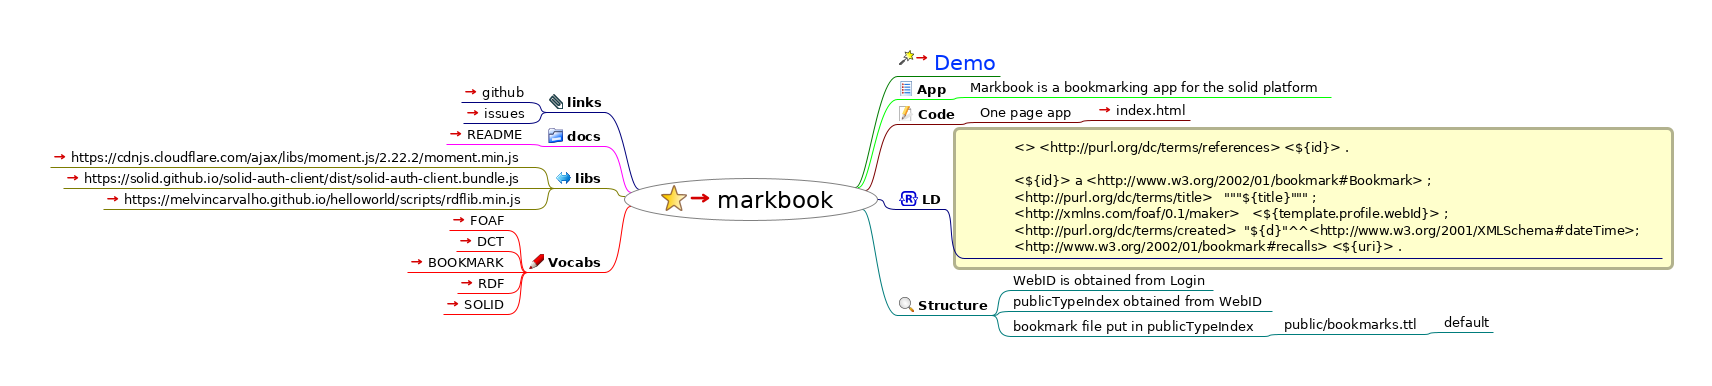
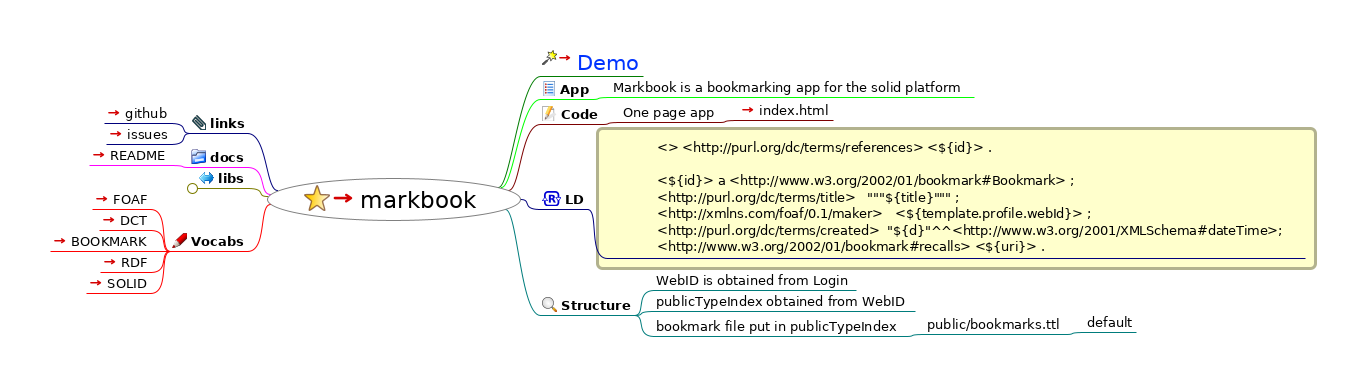
collapse libs

Changed region(s): [[0.031, 0.1244, 0.9919, 0.8705], [0.093, 0.2798, 0.124, 0.3109]]

diff --git a/webmaps/index.html b/webmaps/index.html
@@ -23,37 +23,34 @@
                    };
                };
           
-          --></script></head><body><h1>markbook</h1><div style="width:96%;  padding:2%;  margin-bottom:10px;  border: 0px;  text-align:center;  vertical-align:center;"><img src="index.html_files/image.png" style="margin-bottom:10px; &#9;border: 0px; &#9;text-align:center; &#9;vertical-align:center;" alt="Imagemap" usemap="#fm_imagemap" /></div><map name="fm_imagemap" id="fm_imagemap"><area shape="rect" href="index.html" alt="markbook" title="markbook" coords="624,178,878,221" />
-<area shape="rect" href="https://markbook.org/" alt="Demo" title="Demo" coords="897,50,1000,76" />
-<area shape="rect" href="#FMID_120250381FM" alt="App" title="App" coords="897,81,949,99" />
-<area shape="rect" href="#FMID_495239312FM" alt="Markbook is a bookmarking app for the so ..." title="Markbook is a bookmarking app for the so ..." coords="968,79,1331,97" />
-<area shape="rect" href="#FMID_383868314FM" alt="Code" title="Code" coords="897,106,959,124" />
-<area shape="rect" href="#FMID_26827509FM" alt="One page app" title="One page app" coords="978,104,1076,122" />
-<area shape="rect" href="../index.html" alt="index.html" title="index.html" coords="1095,102,1190,120" />
-<area shape="rect" href="#FMID_940888504FM" alt="LD" title="LD" coords="897,191,945,209" />
-<area shape="rect" href="#FMID_1310058374FM" alt="            &lt;&gt; &lt;http://purl.org/dc/terms ..." title="            &lt;&gt; &lt;http://purl.org/dc/terms ..." coords="964,138,1662,258" />
-<area shape="rect" href="#FMID_1985440428FM" alt="Structure" title="Structure" coords="897,297,992,315" />
-<area shape="rect" href="#FMID_690330746FM" alt="WebID is obtained from Login" title="WebID is obtained from Login" coords="1011,272,1213,290" />
-<area shape="rect" href="#FMID_1974744289FM" alt="publicTypeIndex obtained from WebID" title="publicTypeIndex obtained from WebID" coords="1011,293,1272,311" />
-<area shape="rect" href="#FMID_50156365FM" alt="bookmark file put in publicTypeIndex" title="bookmark file put in publicTypeIndex" coords="1011,318,1263,336" />
-<area shape="rect" href="#FMID_1011719771FM" alt="public/bookmarks.ttl" title="public/bookmarks.ttl" coords="1282,316,1423,334" />
-<area shape="rect" href="#FMID_248766247FM" alt="default" title="default" coords="1442,314,1493,332" />
-<area shape="rect" href="#FMID_808607355FM" alt="links" title="links" coords="547,94,605,112" />
-<area shape="rect" href="https://github.com/mark-book/markbook" alt="github" title="github" coords="461,84,528,102" />
-<area shape="rect" href="https://github.com/mark-book/markbook/issues" alt="issues" title="issues" coords="463,105,528,123" />
-<area shape="rect" href="#FMID_1100215200FM" alt="docs" title="docs" coords="546,128,605,146" />
-<area shape="rect" href="https://github.com/mark-book/markbook#markbook" alt="README" title="README" coords="446,126,527,144" />
-<area shape="rect" href="#FMID_1286983084FM" alt="libs" title="libs" coords="554,170,605,188" />
-<area shape="rect" href="https://cdnjs.cloudflare.com/ajax/libs/moment.js/2.22.2/moment.min.js" alt="https://cdnjs.cloudflare.com/ajax/libs/m ..." title="https://cdnjs.cloudflare.com/ajax/libs/m ..." coords="50,149,535,167" />
-<area shape="rect" href="https://solid.github.io/solid-auth-client/dist/solid-auth-client.bundle.js" alt="https://solid.github.io/solid-auth-clien ..." title="https://solid.github.io/solid-auth-clien ..." coords="63,170,535,188" />
-<area shape="rect" href="https://melvincarvalho.github.io/helloworld/scripts/rdflib.min.js" alt="https://melvincarvalho.github.io/hellowo ..." title="https://melvincarvalho.github.io/hellowo ..." coords="103,191,535,209" />
-<area shape="rect" href="#FMID_129926507FM" alt="Vocabs" title="Vocabs" coords="527,254,605,272" />
-<area shape="rect" href="http://xmlns.com/foaf/0.1/" alt="FOAF" title="FOAF" coords="449,212,508,230" />
-<area shape="rect" href="http://purl.org/dc/terms/" alt="DCT" title="DCT" coords="456,233,508,251" />
-<area shape="rect" href="http://www.w3.org/2002/01/bookmark#" alt="BOOKMARK" title="BOOKMARK" coords="407,254,508,272" />
-<area shape="rect" href="http://www.w3.org/1999/02/22-rdf-syntax-ns#" alt="RDF" title="RDF" coords="457,275,508,293" />
-<area shape="rect" href="http://www.w3.org/ns/solid/terms#" alt="SOLID" title="SOLID" coords="443,296,508,314" />
+          --></script></head><body><h1>markbook</h1><div style="width:96%;  padding:2%;  margin-bottom:10px;  border: 0px;  text-align:center;  vertical-align:center;"><img src="index.html_files/image.png" style="margin-bottom:10px; &#9;border: 0px; &#9;text-align:center; &#9;vertical-align:center;" alt="Imagemap" usemap="#fm_imagemap" /></div><map name="fm_imagemap" id="fm_imagemap"><area shape="rect" href="index.html" alt="markbook" title="markbook" coords="267,178,521,221" />
+<area shape="rect" href="https://markbook.org/" alt="Demo" title="Demo" coords="540,50,643,76" />
+<area shape="rect" href="#FMID_120250381FM" alt="App" title="App" coords="540,81,592,99" />
+<area shape="rect" href="#FMID_495239312FM" alt="Markbook is a bookmarking app for the so ..." title="Markbook is a bookmarking app for the so ..." coords="611,79,974,97" />
+<area shape="rect" href="#FMID_383868314FM" alt="Code" title="Code" coords="540,106,602,124" />
+<area shape="rect" href="#FMID_26827509FM" alt="One page app" title="One page app" coords="621,104,719,122" />
+<area shape="rect" href="../index.html" alt="index.html" title="index.html" coords="738,102,833,120" />
+<area shape="rect" href="#FMID_940888504FM" alt="LD" title="LD" coords="540,191,588,209" />
+<area shape="rect" href="#FMID_1310058374FM" alt="            &lt;&gt; &lt;http://purl.org/dc/terms ..." title="            &lt;&gt; &lt;http://purl.org/dc/terms ..." coords="607,138,1305,258" />
+<area shape="rect" href="#FMID_1985440428FM" alt="Structure" title="Structure" coords="540,297,635,315" />
+<area shape="rect" href="#FMID_690330746FM" alt="WebID is obtained from Login" title="WebID is obtained from Login" coords="654,272,856,290" />
+<area shape="rect" href="#FMID_1974744289FM" alt="publicTypeIndex obtained from WebID" title="publicTypeIndex obtained from WebID" coords="654,293,915,311" />
+<area shape="rect" href="#FMID_50156365FM" alt="bookmark file put in publicTypeIndex" title="bookmark file put in publicTypeIndex" coords="654,318,906,336" />
+<area shape="rect" href="#FMID_1011719771FM" alt="public/bookmarks.ttl" title="public/bookmarks.ttl" coords="925,316,1066,334" />
+<area shape="rect" href="#FMID_248766247FM" alt="default" title="default" coords="1085,314,1136,332" />
+<area shape="rect" href="#FMID_808607355FM" alt="links" title="links" coords="190,115,248,133" />
+<area shape="rect" href="https://github.com/mark-book/markbook" alt="github" title="github" coords="104,105,171,123" />
+<area shape="rect" href="https://github.com/mark-book/markbook/issues" alt="issues" title="issues" coords="106,126,171,144" />
+<area shape="rect" href="#FMID_1100215200FM" alt="docs" title="docs" coords="189,149,248,167" />
+<area shape="rect" href="https://github.com/mark-book/markbook#markbook" alt="README" title="README" coords="89,147,170,165" />
+<area shape="rect" href="#FMID_1286983084FM" alt="libs" title="libs" coords="197,170,248,188" />
+<area shape="rect" href="#FMID_129926507FM" alt="Vocabs" title="Vocabs" coords="170,233,248,251" />
+<area shape="rect" href="http://xmlns.com/foaf/0.1/" alt="FOAF" title="FOAF" coords="92,191,151,209" />
+<area shape="rect" href="http://purl.org/dc/terms/" alt="DCT" title="DCT" coords="99,212,151,230" />
+<area shape="rect" href="http://www.w3.org/2002/01/bookmark#" alt="BOOKMARK" title="BOOKMARK" coords="50,233,151,251" />
+<area shape="rect" href="http://www.w3.org/1999/02/22-rdf-syntax-ns#" alt="RDF" title="RDF" coords="100,254,151,272" />
+<area shape="rect" href="http://www.w3.org/ns/solid/terms#" alt="SOLID" title="SOLID" coords="86,275,151,293" />
 </map>
 
-<div class="node"><img src="index.html_files/hide.png" class="hideshow" alt="hide" onClick="toggle(&quot;N65543&quot;)" id="imgN65543" /><img src="index.html_files/icons/bookmark.svg" alt="bookmark" /> <a id="FMID_1831615648FM" /><div class="nodecontent" style="color:#000000;font-size:150%;"><a href="index.html">markbook</a> <a href="index.html"><img src="index.html_files/ilink.png" alt="User Link" style="border-width:0" /></a></div><div class="content" id="N65543"><div class="node"><img src="index.html_files/leaf.png" class="hideshow" alt="leaf" /><img src="index.html_files/icons/wizard.svg" alt="wizard" /> <a id="FMID_1672887815FM" /><div class="nodecontent" style="color:#0033ff;font-size:133%;"><a href="https://markbook.org/">Demo</a> <a href="https://markbook.org/"><img src="index.html_files/ilink.png" alt="User Link" style="border-width:0" /></a></div></div><div class="node"><img src="index.html_files/hide.png" class="hideshow" alt="hide" onClick="toggle(&quot;N66489&quot;)" id="imgN66489" /><img src="index.html_files/icons/list.svg" alt="list" /> <a id="FMID_120250381FM" /><div class="nodecontent" style="color:#000000;font-size:83%;font-weight:bold;">App</div><div class="content" id="N66489"><div class="node"><img src="index.html_files/leaf.png" class="hideshow" alt="leaf" /><a id="FMID_495239312FM" /><div class="nodecontent" style="color:#000000;font-size:83%;">Markbook is a bookmarking app for the solid platform</div></div></div></div><div class="node"><img src="index.html_files/hide.png" class="hideshow" alt="hide" onClick="toggle(&quot;N66567&quot;)" id="imgN66567" /><img src="index.html_files/icons/edit.svg" alt="edit" /> <a id="FMID_383868314FM" /><div class="nodecontent" style="color:#000000;font-size:83%;font-weight:bold;">Code</div><div class="content" id="N66567"><div class="node"><img src="index.html_files/hide.png" class="hideshow" alt="hide" onClick="toggle(&quot;N66608&quot;)" id="imgN66608" /><a id="FMID_26827509FM" /><div class="nodecontent" style="color:#000000;font-size:83%;">One page app</div><div class="content" id="N66608"><div class="node"><img src="index.html_files/leaf.png" class="hideshow" alt="leaf" /><a id="FMID_119725247FM" /><div class="nodecontent" style="color:#000000;font-size:83%;"><a href="../index.html">index.html</a> <a href="../index.html"><img src="index.html_files/ilink.png" alt="User Link" style="border-width:0" /></a></div></div></div></div></div></div><div class="node"><img src="index.html_files/hide.png" class="hideshow" alt="hide" onClick="toggle(&quot;N66682&quot;)" id="imgN66682" /><img src="index.html_files/icons/revision.svg" alt="revision" /> <a id="FMID_940888504FM" /><div class="nodecontent" style="color:#000000;font-size:83%;font-weight:bold;">LD</div><div class="content" id="N66682"><div class="cloud" style="background-color:#ffffcc"><img src="index.html_files/leaf.png" class="hideshow" alt="leaf" /><a id="FMID_1310058374FM" /><div class="nodecontent" style="color:#000000;font-size:83%;">            &lt;&gt; &lt;http://purl.org/dc/terms/references&gt; &lt;${id}&gt; .<br /><br />            &lt;${id}&gt; a &lt;http://www.w3.org/2002/01/bookmark#Bookmark&gt; ;<br />            &lt;http://purl.org/dc/terms/title&gt;   """${title}""" ;<br />            &lt;http://xmlns.com/foaf/0.1/maker&gt;   &lt;${template.profile.webId}&gt; ;<br />            &lt;http://purl.org/dc/terms/created&gt;  "${d}"^^&lt;http://www.w3.org/2001/XMLSchema#dateTime&gt;;<br />            &lt;http://www.w3.org/2002/01/bookmark#recalls&gt; &lt;${uri}&gt; .</div></div></div></div><div class="node"><img src="index.html_files/hide.png" class="hideshow" alt="hide" onClick="toggle(&quot;N66764&quot;)" id="imgN66764" /><img src="index.html_files/icons/xmag.svg" alt="xmag" /> <a id="FMID_1985440428FM" /><div class="nodecontent" style="color:#000000;font-size:83%;font-weight:bold;">Structure</div><div class="content" id="N66764"><div class="node"><img src="index.html_files/leaf.png" class="hideshow" alt="leaf" /><a id="FMID_690330746FM" /><div class="nodecontent" style="color:#000000;font-size:83%;">WebID is obtained from Login</div></div><div class="node"><img src="index.html_files/leaf.png" class="hideshow" alt="leaf" /><a id="FMID_1974744289FM" /><div class="nodecontent" style="color:#000000;font-size:83%;">publicTypeIndex obtained from WebID</div></div><div class="node"><img src="index.html_files/hide.png" class="hideshow" alt="hide" onClick="toggle(&quot;N66877&quot;)" id="imgN66877" /><a id="FMID_50156365FM" /><div class="nodecontent" style="color:#000000;font-size:83%;">bookmark file put in publicTypeIndex</div><div class="content" id="N66877"><div class="node"><img src="index.html_files/hide.png" class="hideshow" alt="hide" onClick="toggle(&quot;N66912&quot;)" id="imgN66912" /><a id="FMID_1011719771FM" /><div class="nodecontent" style="color:#000000;font-size:83%;">public/bookmarks.ttl</div><div class="content" id="N66912"><div class="node"><img src="index.html_files/leaf.png" class="hideshow" alt="leaf" /><a id="FMID_248766247FM" /><div class="nodecontent" style="color:#000000;font-size:83%;">default</div></div></div></div></div></div></div></div><div class="node"><img src="index.html_files/hide.png" class="hideshow" alt="hide" onClick="toggle(&quot;N66986&quot;)" id="imgN66986" /><img src="index.html_files/icons/attach.svg" alt="attach" /> <a id="FMID_808607355FM" /><div class="nodecontent" style="color:#000000;font-size:83%;font-weight:bold;">links</div><div class="content" id="N66986"><div class="node"><img src="index.html_files/leaf.png" class="hideshow" alt="leaf" /><a id="FMID_885967166FM" /><div class="nodecontent" style="color:#000000;font-size:83%;"><a href="https://github.com/mark-book/markbook">github</a> <a href="https://github.com/mark-book/markbook"><img src="index.html_files/ilink.png" alt="User Link" style="border-width:0" /></a></div></div><div class="node"><img src="index.html_files/leaf.png" class="hideshow" alt="leaf" /><a id="FMID_780116375FM" /><div class="nodecontent" style="color:#000000;font-size:83%;"><a href="https://github.com/mark-book/markbook/issues">issues</a> <a href="https://github.com/mark-book/markbook/issues"><img src="index.html_files/ilink.png" alt="User Link" style="border-width:0" /></a></div></div></div></div><div class="node"><img src="index.html_files/hide.png" class="hideshow" alt="hide" onClick="toggle(&quot;N67102&quot;)" id="imgN67102" /><img src="index.html_files/icons/folder.svg" alt="folder" /> <a id="FMID_1100215200FM" /><div class="nodecontent" style="color:#000000;font-size:83%;font-weight:bold;">docs</div><div class="content" id="N67102"><div class="node"><img src="index.html_files/leaf.png" class="hideshow" alt="leaf" /><a id="FMID_387137590FM" /><div class="nodecontent" style="color:#000000;font-size:83%;"><a href="https://github.com/mark-book/markbook#markbook">README</a> <a href="https://github.com/mark-book/markbook#markbook"><img src="index.html_files/ilink.png" alt="User Link" style="border-width:0" /></a></div></div></div></div><div class="node"><img src="index.html_files/hide.png" class="hideshow" alt="hide" onClick="toggle(&quot;N67181&quot;)" id="imgN67181" /><img src="index.html_files/icons/16x16-free-application-icons/png/16x16/Left-right.png" alt="16x16-free-application-icons/png/16x16/Left-right" /> <a id="FMID_1286983084FM" /><div class="nodecontent" style="color:#000000;font-size:83%;font-weight:bold;">libs</div><div class="content" id="N67181"><div class="node"><img src="index.html_files/leaf.png" class="hideshow" alt="leaf" /><a id="FMID_851897190FM" /><div class="nodecontent" style="color:#000000;font-size:83%;"><a href="https://cdnjs.cloudflare.com/ajax/libs/moment.js/2.22.2/moment.min.js">https://cdnjs.cloudflare.com/ajax/libs/moment.js/2.22.2/moment.min.js</a> <a href="https://cdnjs.cloudflare.com/ajax/libs/moment.js/2.22.2/moment.min.js"><img src="index.html_files/ilink.png" alt="User Link" style="border-width:0" /></a></div></div><div class="node"><img src="index.html_files/leaf.png" class="hideshow" alt="leaf" /><a id="FMID_1873299396FM" /><div class="nodecontent" style="color:#000000;font-size:83%;"><a href="https://solid.github.io/solid-auth-client/dist/solid-auth-client.bundle.js">https://solid.github.io/solid-auth-client/dist/solid-auth-client.bundle.js</a> <a href="https://solid.github.io/solid-auth-client/dist/solid-auth-client.bundle.js"><img src="index.html_files/ilink.png" alt="User Link" style="border-width:0" /></a></div></div><div class="node"><img src="index.html_files/leaf.png" class="hideshow" alt="leaf" /><a id="FMID_1373373760FM" /><div class="nodecontent" style="color:#000000;font-size:83%;"><a href="https://melvincarvalho.github.io/helloworld/scripts/rdflib.min.js">https://melvincarvalho.github.io/helloworld/scripts/rdflib.min.js</a> <a href="https://melvincarvalho.github.io/helloworld/scripts/rdflib.min.js"><img src="index.html_files/ilink.png" alt="User Link" style="border-width:0" /></a></div></div></div></div><div class="node"><img src="index.html_files/hide.png" class="hideshow" alt="hide" onClick="toggle(&quot;N67334&quot;)" id="imgN67334" /><img src="index.html_files/icons/pencil.svg" alt="pencil" /> <a id="FMID_129926507FM" /><div class="nodecontent" style="color:#000000;font-size:83%;font-weight:bold;">Vocabs</div><div class="content" id="N67334"><div class="node"><img src="index.html_files/leaf.png" class="hideshow" alt="leaf" /><a id="FMID_500156053FM" /><div class="nodecontent" style="color:#000000;font-size:83%;"><a href="http://xmlns.com/foaf/0.1/">FOAF</a> <a href="http://xmlns.com/foaf/0.1/"><img src="index.html_files/ilink.png" alt="User Link" style="border-width:0" /></a></div></div><div class="node"><img src="index.html_files/leaf.png" class="hideshow" alt="leaf" /><a id="FMID_599327468FM" /><div class="nodecontent" style="color:#000000;font-size:83%;"><a href="http://purl.org/dc/terms/">DCT</a> <a href="http://purl.org/dc/terms/"><img src="index.html_files/ilink.png" alt="User Link" style="border-width:0" /></a></div></div><div class="node"><img src="index.html_files/leaf.png" class="hideshow" alt="leaf" /><a id="FMID_32599561FM" /><div class="nodecontent" style="color:#000000;font-size:83%;"><a href="http://www.w3.org/2002/01/bookmark#">BOOKMARK</a> <a href="http://www.w3.org/2002/01/bookmark#"><img src="index.html_files/ilink.png" alt="User Link" style="border-width:0" /></a></div></div><div class="node"><img src="index.html_files/leaf.png" class="hideshow" alt="leaf" /><a id="FMID_1370597730FM" /><div class="nodecontent" style="color:#000000;font-size:83%;"><a href="http://www.w3.org/1999/02/22-rdf-syntax-ns#">RDF</a> <a href="http://www.w3.org/1999/02/22-rdf-syntax-ns#"><img src="index.html_files/ilink.png" alt="User Link" style="border-width:0" /></a></div></div><div class="node"><img src="index.html_files/leaf.png" class="hideshow" alt="leaf" /><a id="FMID_134386448FM" /><div class="nodecontent" style="color:#000000;font-size:83%;"><a href="http://www.w3.org/ns/solid/terms#">SOLID</a> <a href="http://www.w3.org/ns/solid/terms#"><img src="index.html_files/ilink.png" alt="User Link" style="border-width:0" /></a></div></div></div></div></div></div>
+<div class="node"><img src="index.html_files/hide.png" class="hideshow" alt="hide" onClick="toggle(&quot;N65543&quot;)" id="imgN65543" /><img src="index.html_files/icons/bookmark.svg" alt="bookmark" /> <a id="FMID_1831615648FM" /><div class="nodecontent" style="color:#000000;font-size:150%;"><a href="index.html">markbook</a> <a href="index.html"><img src="index.html_files/ilink.png" alt="User Link" style="border-width:0" /></a></div><div class="content" id="N65543"><div class="node"><img src="index.html_files/leaf.png" class="hideshow" alt="leaf" /><img src="index.html_files/icons/wizard.svg" alt="wizard" /> <a id="FMID_1672887815FM" /><div class="nodecontent" style="color:#0033ff;font-size:133%;"><a href="https://markbook.org/">Demo</a> <a href="https://markbook.org/"><img src="index.html_files/ilink.png" alt="User Link" style="border-width:0" /></a></div></div><div class="node"><img src="index.html_files/hide.png" class="hideshow" alt="hide" onClick="toggle(&quot;N66489&quot;)" id="imgN66489" /><img src="index.html_files/icons/list.svg" alt="list" /> <a id="FMID_120250381FM" /><div class="nodecontent" style="color:#000000;font-size:83%;font-weight:bold;">App</div><div class="content" id="N66489"><div class="node"><img src="index.html_files/leaf.png" class="hideshow" alt="leaf" /><a id="FMID_495239312FM" /><div class="nodecontent" style="color:#000000;font-size:83%;">Markbook is a bookmarking app for the solid platform</div></div></div></div><div class="node"><img src="index.html_files/hide.png" class="hideshow" alt="hide" onClick="toggle(&quot;N66567&quot;)" id="imgN66567" /><img src="index.html_files/icons/edit.svg" alt="edit" /> <a id="FMID_383868314FM" /><div class="nodecontent" style="color:#000000;font-size:83%;font-weight:bold;">Code</div><div class="content" id="N66567"><div class="node"><img src="index.html_files/hide.png" class="hideshow" alt="hide" onClick="toggle(&quot;N66608&quot;)" id="imgN66608" /><a id="FMID_26827509FM" /><div class="nodecontent" style="color:#000000;font-size:83%;">One page app</div><div class="content" id="N66608"><div class="node"><img src="index.html_files/leaf.png" class="hideshow" alt="leaf" /><a id="FMID_119725247FM" /><div class="nodecontent" style="color:#000000;font-size:83%;"><a href="../index.html">index.html</a> <a href="../index.html"><img src="index.html_files/ilink.png" alt="User Link" style="border-width:0" /></a></div></div></div></div></div></div><div class="node"><img src="index.html_files/hide.png" class="hideshow" alt="hide" onClick="toggle(&quot;N66682&quot;)" id="imgN66682" /><img src="index.html_files/icons/revision.svg" alt="revision" /> <a id="FMID_940888504FM" /><div class="nodecontent" style="color:#000000;font-size:83%;font-weight:bold;">LD</div><div class="content" id="N66682"><div class="cloud" style="background-color:#ffffcc"><img src="index.html_files/leaf.png" class="hideshow" alt="leaf" /><a id="FMID_1310058374FM" /><div class="nodecontent" style="color:#000000;font-size:83%;">            &lt;&gt; &lt;http://purl.org/dc/terms/references&gt; &lt;${id}&gt; .<br /><br />            &lt;${id}&gt; a &lt;http://www.w3.org/2002/01/bookmark#Bookmark&gt; ;<br />            &lt;http://purl.org/dc/terms/title&gt;   """${title}""" ;<br />            &lt;http://xmlns.com/foaf/0.1/maker&gt;   &lt;${template.profile.webId}&gt; ;<br />            &lt;http://purl.org/dc/terms/created&gt;  "${d}"^^&lt;http://www.w3.org/2001/XMLSchema#dateTime&gt;;<br />            &lt;http://www.w3.org/2002/01/bookmark#recalls&gt; &lt;${uri}&gt; .</div></div></div></div><div class="node"><img src="index.html_files/hide.png" class="hideshow" alt="hide" onClick="toggle(&quot;N66764&quot;)" id="imgN66764" /><img src="index.html_files/icons/xmag.svg" alt="xmag" /> <a id="FMID_1985440428FM" /><div class="nodecontent" style="color:#000000;font-size:83%;font-weight:bold;">Structure</div><div class="content" id="N66764"><div class="node"><img src="index.html_files/leaf.png" class="hideshow" alt="leaf" /><a id="FMID_690330746FM" /><div class="nodecontent" style="color:#000000;font-size:83%;">WebID is obtained from Login</div></div><div class="node"><img src="index.html_files/leaf.png" class="hideshow" alt="leaf" /><a id="FMID_1974744289FM" /><div class="nodecontent" style="color:#000000;font-size:83%;">publicTypeIndex obtained from WebID</div></div><div class="node"><img src="index.html_files/hide.png" class="hideshow" alt="hide" onClick="toggle(&quot;N66877&quot;)" id="imgN66877" /><a id="FMID_50156365FM" /><div class="nodecontent" style="color:#000000;font-size:83%;">bookmark file put in publicTypeIndex</div><div class="content" id="N66877"><div class="node"><img src="index.html_files/hide.png" class="hideshow" alt="hide" onClick="toggle(&quot;N66912&quot;)" id="imgN66912" /><a id="FMID_1011719771FM" /><div class="nodecontent" style="color:#000000;font-size:83%;">public/bookmarks.ttl</div><div class="content" id="N66912"><div class="node"><img src="index.html_files/leaf.png" class="hideshow" alt="leaf" /><a id="FMID_248766247FM" /><div class="nodecontent" style="color:#000000;font-size:83%;">default</div></div></div></div></div></div></div></div><div class="node"><img src="index.html_files/hide.png" class="hideshow" alt="hide" onClick="toggle(&quot;N66986&quot;)" id="imgN66986" /><img src="index.html_files/icons/attach.svg" alt="attach" /> <a id="FMID_808607355FM" /><div class="nodecontent" style="color:#000000;font-size:83%;font-weight:bold;">links</div><div class="content" id="N66986"><div class="node"><img src="index.html_files/leaf.png" class="hideshow" alt="leaf" /><a id="FMID_885967166FM" /><div class="nodecontent" style="color:#000000;font-size:83%;"><a href="https://github.com/mark-book/markbook">github</a> <a href="https://github.com/mark-book/markbook"><img src="index.html_files/ilink.png" alt="User Link" style="border-width:0" /></a></div></div><div class="node"><img src="index.html_files/leaf.png" class="hideshow" alt="leaf" /><a id="FMID_780116375FM" /><div class="nodecontent" style="color:#000000;font-size:83%;"><a href="https://github.com/mark-book/markbook/issues">issues</a> <a href="https://github.com/mark-book/markbook/issues"><img src="index.html_files/ilink.png" alt="User Link" style="border-width:0" /></a></div></div></div></div><div class="node"><img src="index.html_files/hide.png" class="hideshow" alt="hide" onClick="toggle(&quot;N67102&quot;)" id="imgN67102" /><img src="index.html_files/icons/folder.svg" alt="folder" /> <a id="FMID_1100215200FM" /><div class="nodecontent" style="color:#000000;font-size:83%;font-weight:bold;">docs</div><div class="content" id="N67102"><div class="node"><img src="index.html_files/leaf.png" class="hideshow" alt="leaf" /><a id="FMID_387137590FM" /><div class="nodecontent" style="color:#000000;font-size:83%;"><a href="https://github.com/mark-book/markbook#markbook">README</a> <a href="https://github.com/mark-book/markbook#markbook"><img src="index.html_files/ilink.png" alt="User Link" style="border-width:0" /></a></div></div></div></div><div class="node"><img src="index.html_files/hide.png" class="hideshow" alt="hide" onClick="toggle(&quot;N67181&quot;)" id="imgN67181" /><img src="index.html_files/icons/16x16-free-application-icons/png/16x16/Left-right.png" alt="16x16-free-application-icons/png/16x16/Left-right" /> <a id="FMID_1286983084FM" /><div class="nodecontent" style="color:#000000;font-size:83%;font-weight:bold;">libs</div><div class="content" id="N67181"><div class="node"><img src="index.html_files/leaf.png" class="hideshow" alt="leaf" /><a id="FMID_851897190FM" /><div class="nodecontent" style="color:#000000;font-size:83%;"><a href="https://cdnjs.cloudflare.com/ajax/libs/moment.js/2.22.2/moment.min.js">https://cdnjs.cloudflare.com/ajax/libs/moment.js/2.22.2/moment.min.js</a> <a href="https://cdnjs.cloudflare.com/ajax/libs/moment.js/2.22.2/moment.min.js"><img src="index.html_files/ilink.png" alt="User Link" style="border-width:0" /></a></div></div><div class="node"><img src="index.html_files/leaf.png" class="hideshow" alt="leaf" /><a id="FMID_1873299396FM" /><div class="nodecontent" style="color:#000000;font-size:83%;"><a href="https://solid.github.io/solid-auth-client/dist/solid-auth-client.bundle.js">https://solid.github.io/solid-auth-client/dist/solid-auth-client.bundle.js</a> <a href="https://solid.github.io/solid-auth-client/dist/solid-auth-client.bundle.js"><img src="index.html_files/ilink.png" alt="User Link" style="border-width:0" /></a></div></div><div class="node"><img src="index.html_files/leaf.png" class="hideshow" alt="leaf" /><a id="FMID_1373373760FM" /><div class="nodecontent" style="color:#000000;font-size:83%;"><a href="https://melvincarvalho.github.io/helloworld/scripts/rdflib.min.js">https://melvincarvalho.github.io/helloworld/scripts/rdflib.min.js</a> <a href="https://melvincarvalho.github.io/helloworld/scripts/rdflib.min.js"><img src="index.html_files/ilink.png" alt="User Link" style="border-width:0" /></a></div></div></div></div><div class="node"><img src="index.html_files/hide.png" class="hideshow" alt="hide" onClick="toggle(&quot;N67335&quot;)" id="imgN67335" /><img src="index.html_files/icons/pencil.svg" alt="pencil" /> <a id="FMID_129926507FM" /><div class="nodecontent" style="color:#000000;font-size:83%;font-weight:bold;">Vocabs</div><div class="content" id="N67335"><div class="node"><img src="index.html_files/leaf.png" class="hideshow" alt="leaf" /><a id="FMID_500156053FM" /><div class="nodecontent" style="color:#000000;font-size:83%;"><a href="http://xmlns.com/foaf/0.1/">FOAF</a> <a href="http://xmlns.com/foaf/0.1/"><img src="index.html_files/ilink.png" alt="User Link" style="border-width:0" /></a></div></div><div class="node"><img src="index.html_files/leaf.png" class="hideshow" alt="leaf" /><a id="FMID_599327468FM" /><div class="nodecontent" style="color:#000000;font-size:83%;"><a href="http://purl.org/dc/terms/">DCT</a> <a href="http://purl.org/dc/terms/"><img src="index.html_files/ilink.png" alt="User Link" style="border-width:0" /></a></div></div><div class="node"><img src="index.html_files/leaf.png" class="hideshow" alt="leaf" /><a id="FMID_32599561FM" /><div class="nodecontent" style="color:#000000;font-size:83%;"><a href="http://www.w3.org/2002/01/bookmark#">BOOKMARK</a> <a href="http://www.w3.org/2002/01/bookmark#"><img src="index.html_files/ilink.png" alt="User Link" style="border-width:0" /></a></div></div><div class="node"><img src="index.html_files/leaf.png" class="hideshow" alt="leaf" /><a id="FMID_1370597730FM" /><div class="nodecontent" style="color:#000000;font-size:83%;"><a href="http://www.w3.org/1999/02/22-rdf-syntax-ns#">RDF</a> <a href="http://www.w3.org/1999/02/22-rdf-syntax-ns#"><img src="index.html_files/ilink.png" alt="User Link" style="border-width:0" /></a></div></div><div class="node"><img src="index.html_files/leaf.png" class="hideshow" alt="leaf" /><a id="FMID_134386448FM" /><div class="nodecontent" style="color:#000000;font-size:83%;"><a href="http://www.w3.org/ns/solid/terms#">SOLID</a> <a href="http://www.w3.org/ns/solid/terms#"><img src="index.html_files/ilink.png" alt="User Link" style="border-width:0" /></a></div></div></div></div></div></div>
 </body></html>

diff --git a/webmaps/index.mm b/webmaps/index.mm
@@ -116,7 +116,7 @@
 <font BOLD="true"/>
 <node TEXT="README" ID="ID_387137590" CREATED="1578918236074" MODIFIED="1578920105050" LINK="https://github.com/mark-book/markbook#markbook"/>
 </node>
-<node TEXT="libs" POSITION="left" ID="ID_1286983084" CREATED="1578921023960" MODIFIED="1578921136898">
+<node TEXT="libs" FOLDED="true" POSITION="left" ID="ID_1286983084" CREATED="1578921023960" MODIFIED="1578921136898">
 <icon BUILTIN="16x16-free-application-icons/png/16x16/Left-right"/>
 <edge COLOR="#7c7c00"/>
 <font BOLD="true"/>
